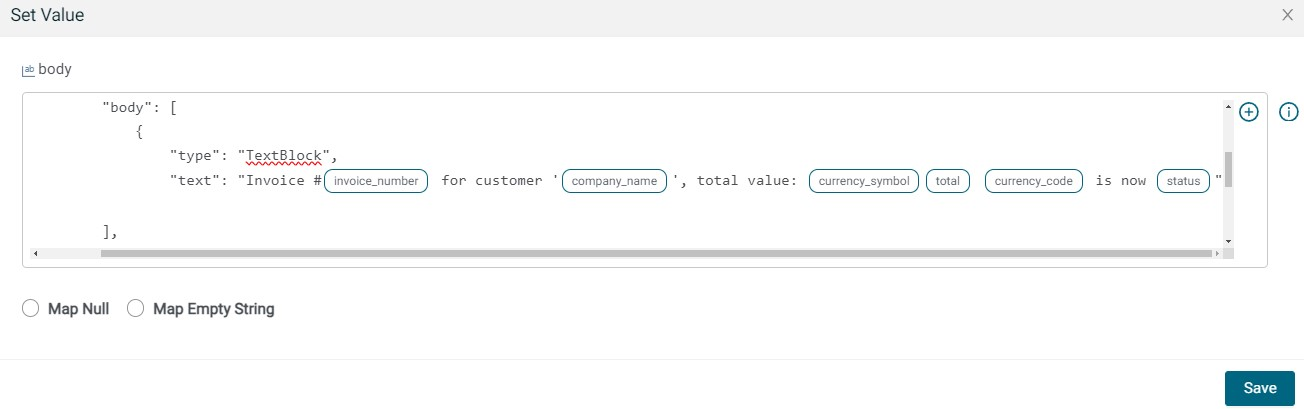
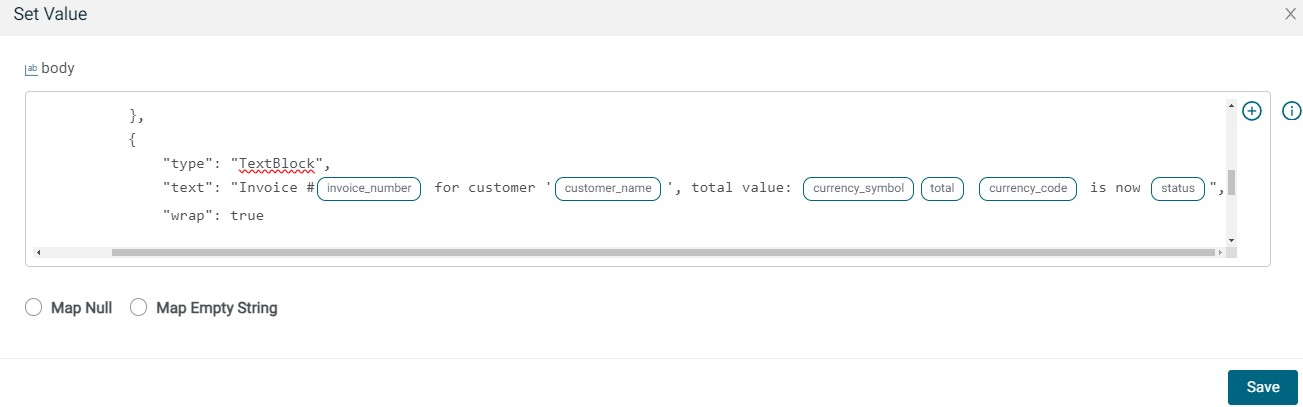
Changes from Thierry review

diff --git a/asynchronous-integration/fr/README.md b/asynchronous-integration/fr/README.md
@@ -225,7 +225,8 @@ Nous utiliserons le connecteur MS Teams Webhook afin de pouvoir poster un messag
                 "body": [
                     {
                         "type": "TextBlock",
-                        "text": "Invoice #{invoice_number} for customer '{company_name}', total value: {currency_symbol}{total} {currency_code} is now {status}"
+                        "text": "Invoice #{invoice_number} for customer '{customer_name}', total value: {currency_symbol}{total} {currency_code} is now {status}",
+                        "wrap": true
                     }
                 ],
                 "$schema": "https://adaptivecards.io/schemas/adaptive-card.json",
@@ -250,7 +251,7 @@ Nous utiliserons le connecteur MS Teams Webhook afin de pouvoir poster un messag
 * Nous sommes maintenant prêts à tester notre intégration qui devrait ressembler à ceci:
   ![integration](../images/lab2-integration-rabbitmq.jpg)
 * Activer l'intégration, suite à cela un message apparaît sur MS Teams. C'est le message publié à la fin de l'étape 1
-  ![teams message](../images/lab2-teams-message.png)
+  ![teams message](../images/lab2-teams-message.jpg)
 * S'assurer que la première intégration soit activée et modifier une facture ou créer une nouvelle facture dans Zoho Invoice. On constate la réception d'un nouveau message dans MS Teams une fois que le Scheduler est déclenché. Pour mettre à jour une facture, on peut la marquer comme envoyée et/ou enregistrer un paiement pour changer son statut.
 * Désactiver les deux intégrations lorsqu'elles ne sont plus utilisées afin d'éviter les requêtes répétitives.
 

diff --git a/asynchronous-integration/README.md b/asynchronous-integration/README.md
@@ -222,7 +222,8 @@ We'll use the MS Teams Incoming Webhook Connector so that we can Post a message 
                 "body": [
                     {
                         "type": "TextBlock",
-                        "text": "Invoice #{invoice_number} for customer '{company_name}', total value: {currency_symbol}{total} {currency_code} is now {status}"
+                        "text": "Invoice #{invoice_number} for customer '{customer_name}', total value: {currency_symbol}{total} {currency_code} is now {status}",
+                        "wrap": true
                     }
                 ],
                 "$schema": "https://adaptivecards.io/schemas/adaptive-card.json",
@@ -248,7 +249,7 @@ We'll use the MS Teams Incoming Webhook Connector so that we can Post a message 
 * Now we're ready to test our integration which should look like this:
   ![integration](images/lab2-integration-rabbitmq.jpg)
 * Enable your integration and you should see a message in MS Teams. This is the message we published at the end of the previous lab
-  ![teams message](images/lab2-teams-message.png)
+  ![teams message](images/lab2-teams-message.jpg)
 * Make sure the other integration is enabled and modify an invoice or create a new invoice in Zoho Invoice and see that you get a new message in MS Teams once the scheduler is triggered. For updating a invoice you can mark an invoice as sent and/or record a payment to change its status
 * Disable both integrations (to avoid polling) when not in use
 
